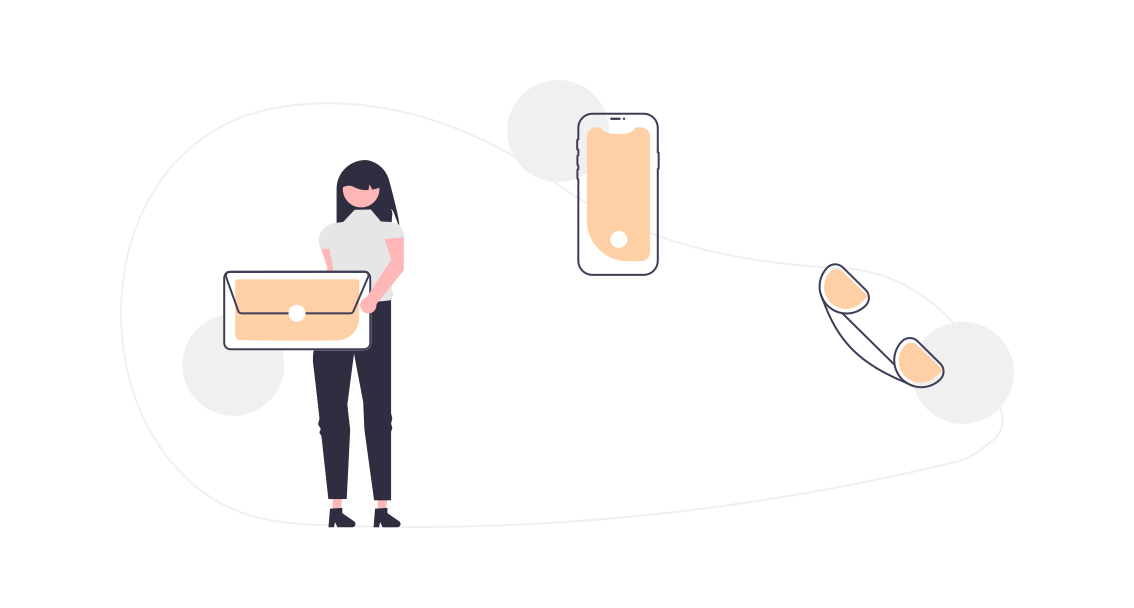
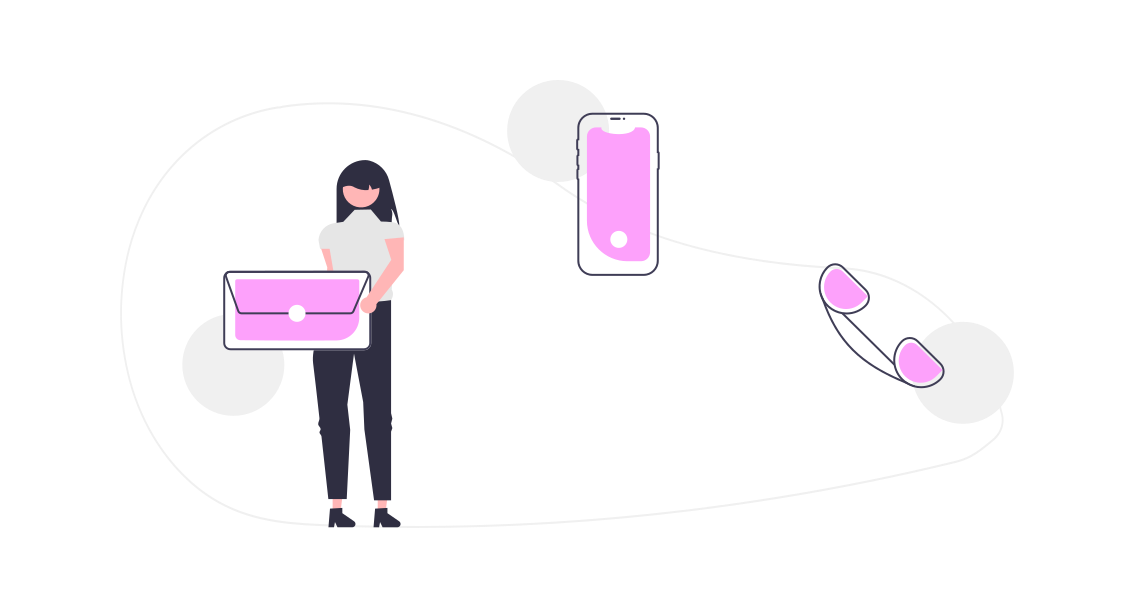
new

diff --git a/index.html b/index.html
@@ -3,7 +3,7 @@
 
 <head>
     <meta http-equiv="Content-Type" content="text/html; charset=utf-8" />
-    <title>Jeevi SAP </title>
+    <title>Jeevi Project </title>
     <link rel="stylesheet" href="https://cdn.jsdelivr.net/bxslider/4.2.12/jquery.bxslider.css">
     <link rel="stylesheet" href="css/animate.css">
     <link rel="icon" type="image/x-icon" href="./images/logo_yy.png">
@@ -267,7 +267,7 @@
                 <div class="row">
                     <div class="col-md-8 col-sm-12">
                         <div class="banner-text">
-                            <h2 class="white">Experience Seamless Integration and Efficiency with SAP ERP Solutions
+                            <h2 class="white">Embarking on a Journey of Innovation
                             </h2>
 
                             <p class="banner-text white">Transforming Ideas into Stunning Visual Realities</p>
@@ -523,10 +523,10 @@
                         <h3>About</h3>
                         <span class="line"></span>
                         <h5>
-                            Welcome to Jeevi SAP where creativity knows no bounds
+                            Welcome to Jeevi Project where creativity knows no bounds
                         </h5>
                         <p>
-                            At Jeevi Academy, we're more than just a SAP teaching academy; we're your creative
+                            At Jeevi Academy, we're more than just a Project teaching academy; we're your creative
                             partners in transforming ideas into visual masterpieces. Our journey began with a passion
                             for design, a commitment to innovation, and a mission to bring your vision to life.
                         </p>
@@ -630,7 +630,7 @@
 
                                     <div class="card_body">
                                         <div class="card_body_each">
-                                            <div class="card_body_each_a"><a href="https://app.site123.com/manager/affiliate/abLandingOutsource.php?subject=&a=1&c_h=SITE123+Official+Website&utm_source=google&utm_medium=cpc&utm_campaign=13821312605&utm_adgroupID=131378625544&gclid=CjwKCAjwnOipBhBQEiwACyGLumD9ivfJnhwpIO_7OyH3tNGwD_AefY3XX9JNN7U3ZlIyVAXsz0XmjRoCsWQQAvD_BwE&l=en&landingSystem=1"><span>SAP</span></a>
+                                            <div class="card_body_each_a"><a href="https://app.site123.com/manager/affiliate/abLandingOutsource.php?subject=&a=1&c_h=SITE123+Official+Website&utm_source=google&utm_medium=cpc&utm_campaign=13821312605&utm_adgroupID=131378625544&gclid=CjwKCAjwnOipBhBQEiwACyGLumD9ivfJnhwpIO_7OyH3tNGwD_AefY3XX9JNN7U3ZlIyVAXsz0XmjRoCsWQQAvD_BwE&l=en&landingSystem=1"><span>Project</span></a>
                                             </div>
                                         </div>
 

diff --git a/css/style.css b/css/style.css
@@ -75,7 +75,7 @@ h6 {
 	display: none;
 }
 .nav-scroll {
-	background: linear-gradient(to left, #ffcfa6, #000);
+	background: linear-gradient(to left, #fda1fb, #000);
 	/* background: linear-gradient(to left, #df409a, #000); */
 	/* background: linear-gradient(to left, #4cccd9, #464a58); */
 
@@ -107,7 +107,7 @@ h6 {
 .banner {
 	/* background: #7a60ff; */
 	/* background: linear-gradient(to left, #036, #000); */
-	background: linear-gradient(to left, #ffcfa6, #000);
+	background: linear-gradient(to left, #fda1fb, #000);
 	/* background: linear-gradient(to left, #4cccd9, #464a58); */
 	padding:100px 0px;
 	position:relative;
@@ -200,7 +200,7 @@ h6 {
 	height: 135px;
 	border-radius: 100px;
 	background: #7a60ff;
-	background: linear-gradient(to left, #ffcfa6, #000);
+	background: linear-gradient(to left, #fda1fb, #000);
 	color: #ffffff;
 	font-size: 50px;
 	line-height: 135px;
@@ -476,7 +476,7 @@ input {
 	border-radius: 2rem;
 	border: 0;
 	background: #7a60ff;
-	background: linear-gradient(to left, #df409a, #000);
+	background: linear-gradient(to left, #fda1fb, #000);
 	cursor:pointer;
 }
 
@@ -484,7 +484,7 @@ input {
 	padding: 2rem 2rem 1rem;
 	border-radius: 8px;
 	background: #7a60ff;
-	background: linear-gradient(to left, #ffcfa6, #000);
+	background: linear-gradient(to left, #fda1fb, #000);
 }
 
 
@@ -672,7 +672,7 @@ h3 {
 
 .btn_Read_more{
     display: inline-block;
-    color: #ffcfa6;
+    color: #fda1fb;
     background: #fff;
     border: 1px solid ;
     font-weight: 700;
@@ -682,7 +682,7 @@ h3 {
 
 .btn_Read_more:hover{
     color: #fff;
-	background: linear-gradient(to left, #ffcfa6, #000000);
+	background: linear-gradient(to left, #fda1fb, #000000);
     border: 1px solid#fff;
 }
 
@@ -720,7 +720,7 @@ h3 {
 	border: 1px solid;
   }
   .card_body_each_a a span {
-	color: #ffcfa6;
+	color: #fda1fb;
 	font-size: 20px;
 	font-weight: 600;
 	height: 50px;
@@ -750,7 +750,7 @@ h3 {
 	border-radius: 50px !important;
 	border: 1px solid transparent;
 	background-color: #001828;
-	background-image: linear-gradient(120deg, #000, #ffcfa6);
+	background-image: linear-gradient(120deg, #000, #fda1fb);
 	/* background-image: linear-gradient(159deg, #243b4a, #2a2d3c); */
 	/* box-shadow: inset -1px -1px 10px 0 rgba(32, 27, 61, 0.93), inset 1px 1px 3px 0 rgb(47, 53, 71), 1px 1px 2px 0 #000410; */
   }
@@ -765,7 +765,7 @@ h3 {
 	border: 1px solid transparent;
 	background-color: #001828;
 	text-decoration: none;
-	background-image: linear-gradient(120deg, #ffcfa6, #000);
+	background-image: linear-gradient(120deg, #fda1fb, #000);
 	/* background-image: linear-gradient(159deg, #243b4a, #2a2d3c); */
 	/* box-shadow: inset -1px -1px 10px 0 rgba(32, 27, 61, 0.93), inset 1px 1px 3px 0 rgb(47, 53, 71), 1px 1px 2px 0 #000410; */
 
